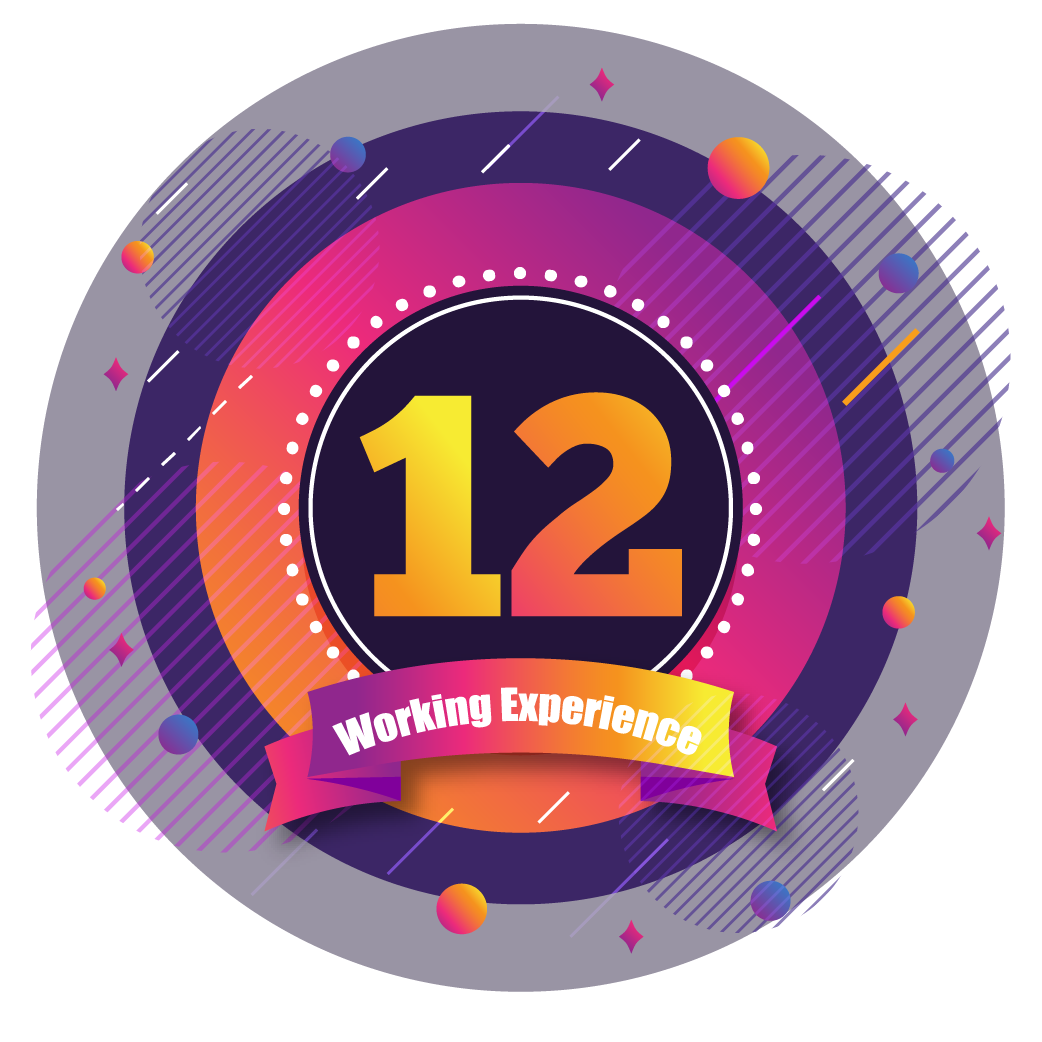
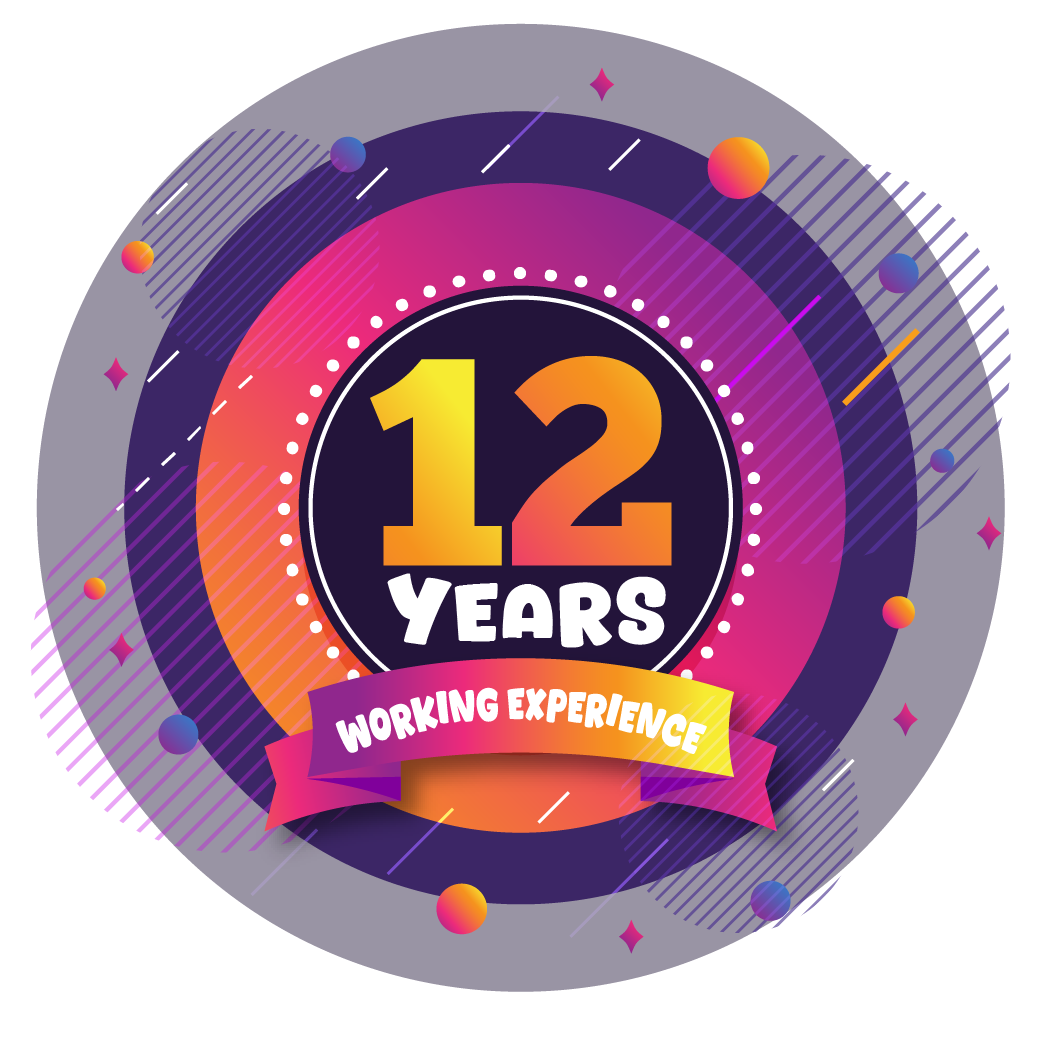
12

Changed region(s): [[0.3071, 0.3378, 0.6756, 0.737]]

diff --git a/myangularresume/src/app/bannercontent/bannercontent.component.html b/myangularresume/src/app/bannercontent/bannercontent.component.html
@@ -1,7 +1,7 @@
 <section class="bg-body-tertiary rounded-3 mt-5">
 <div class="container">
     <div class="row align-items-center">
-        <div class="p-md-0 mb-5 col-md-9 text-white">
+        <div class="p-md-0 mb-5 col-md-8 text-white">
             <div class="py-5">
               <h3 class="display-5 fw-bold">{{myname}}</h3>
               <h5 class="mb-3">{{caption}}</h5>
@@ -12,7 +12,7 @@
             </div>
           </div>
 
-          <div class="col-md-3">            
+          <div class="col-md-4">            
             <div class="profilepic">
               <img src="https://dev.azure.com/trajashekar4230786/18f8717f-0bc0-4857-be3d-1485248f36eb/_apis/git/repositories/327409f9-539a-4929-8784-0f3fb5eb454c/items?path=/myangularresume/src/assets/12.png&versionDescriptor%5BversionOptions%5D=0&versionDescriptor%5BversionType%5D=0&versionDescriptor%5Bversion%5D=master&resolveLfs=true&%24format=octetStream&api-version=5.0" class="w-100"/>
             </div>
